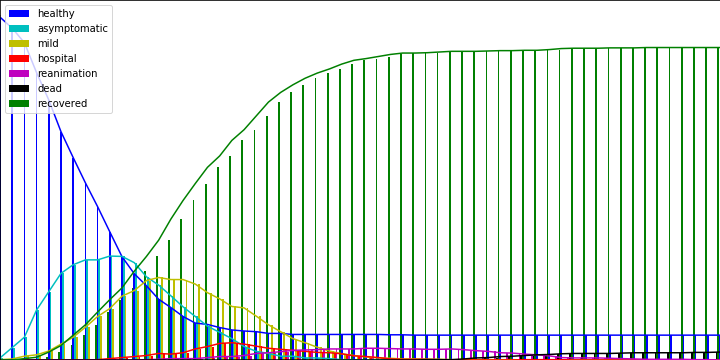
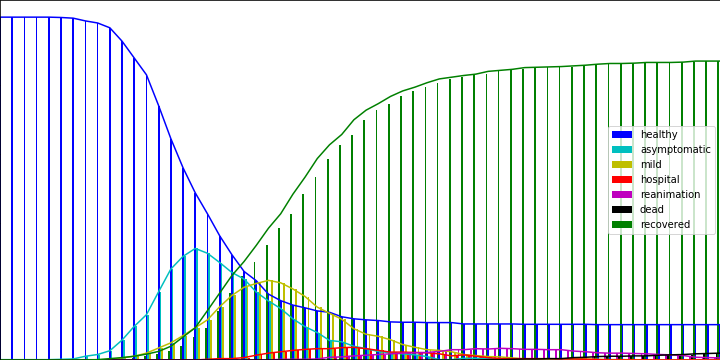
vectorization of map.make_move()

Changed region(s): [[0.0, 0.0, 1.0, 1.0], [0.825, 0.3361, 1.0, 0.6722]]

diff --git a/propagsim/classes.py b/propagsim/classes.py
@@ -1,7 +1,7 @@
 from numpy.random import choice, uniform
-from numpy import array, concatenate, where
+from numpy import array, concatenate, where, argmax, copy, multiply, max
 from itertools import compress
-from propagsim.utils import get_least_severe_state, get_move_proba_matrix
+from propagsim.utils import get_least_severe_state, get_move_proba_matrix, vectorized_choice, np_one_hot_encode
 from multiprocessing import Pool, cpu_count
 
 
@@ -232,21 +232,20 @@ class Cell:
         """ update the state of the agent in the cell by activing contagion. The probability for an agent to get infected is:
         (greatest contagiousity among agents in cell) * (sensitivity of agent)
         """
-        most_contagious_agent = None
-        for agent in self.agents:
-            if (most_contagious_agent is None or 
-                    agent.get_state().get_contagiousity() > most_contagious_agent.get_state().get_contagiousity()):
-                most_contagious_agent = agent
-        greatest_contagiousity = most_contagious_agent.get_state().get_contagiousity()
-        if greatest_contagiousity == 0: 
-            return  # no update if no agent in the cell is contagious
-        for agent in self.agents:  # unnecessary to parallelize, there shouldn't be too many agents in a single cell
-            proba_infection = greatest_contagiousity * agent.get_state().get_sensitivity() * self.unsafety
-            draw = uniform()
-            if draw < proba_infection:
-                newly_infected = agent.get_infected()
-                if newly_infected:
-                    most_contagious_agent.append_contaminated(agent.get_id())
+        contagiousity_agents = array([agent.get_state().get_contagiousity() for agent in self.agents])
+        greatest_contagiousity = max(contagiousity_agents)
+        most_contagious_agent = self.agents[argmax(contagiousity_agents)]
+        if greatest_contagiousity == 0:
+            return 
+        sensitivity_agents = array([agent.get_state().get_sensitivity() for agent in self.agents])
+        probas_infection = self.unsafety * greatest_contagiousity * sensitivity_agents
+        draws = uniform(size=probas_infection.shape[0])
+        inds_agents_to_infect = where(probas_infection > draws)[0]
+        for ind in inds_agents_to_infect:
+            if self.agents[ind].get_infected():
+                most_contagious_agent.append_contaminated(ind)
+
+
 
     def add_agent(self, agent, update=True):
         """ add `agent` to the cell. `update`: if to proceed to contagion within the cell or not. """
@@ -291,6 +290,17 @@ class Map:
         self.attractivity_arr = array([cell.get_attractivity() for cell in cells])
 
         self.move_proba_matrix = get_move_proba_matrix(self.pos_cells_arr, self.pos_agents_arr, self.attractivity_arr)
+        self.unsafety_cells = array([cell.get_unsafety() for cell in cells])
+        self.p_moves = array([agent.get_p_move() for agent in agents])
+        self.severities = array([agent.get_state().get_severity() for agent in agents])
+        self.infectabilities = self.severities > 0
+        self.sensitivities = array([agent.get_sensitivity() for agent in agents])
+        self.contagiousities = array([agent.get_contagiousity() for agent in agents])
+        self.probas_move = self.p_moves * (1 - self.severities)
+        self.home_cell_ids = array([agent.get_home_cell_id() for agent in agents])
+        self.current_state_ids = array([agent.get_state().get_id() for agent in agents])
+        self.least_state_ids = array([agent.get_least_severe_state().get_id() for agent in agents])
+        self.current_state_durations = array([0] * self.n_agents)
 
 
     def get_agent(self, id):
@@ -335,18 +345,28 @@ class Map:
         it's considered to return (or stay) home during this move """
         # Select agents who make a move
         draw = uniform()
-        probas_move = array([(agent.get_p_move() * (1 - agent.get_state().get_severity())) for agent in self.agents])
-        inds_agents2move = where(probas_move >= draw)[0]
+        inds_agents2move = where(self.probas_move >= draw)[0]
         if self.verbose >= 1:
             print(f'INFO: {inds_agents2move.shape[0]} selected for move')
+        # Move agents selected agents (the others go/stay in their home cell)
+        probas_new_cell = self.move_proba_matrix[:, inds_agents2move]
+        new_cell_ids = vectorized_choice(probas_new_cell)
+        current_agent_cells = copy(self.home_cell_ids)
+        current_agent_cells[inds_agents2move] = new_cell_ids
+        # contamination process
+        current_agent_cells_one_hot = np_one_hot_encode(current_agent_cells)
+        arr_contagiousity = repeat(self.contagiousities, current_agent_cells.shape[1], axis=1)
+        arr_contagiousity = multiply(current_agent_cells, arr_contagiousity)
+        max_contagiousities = max(arr_contagiousity, axis=1)
+        max_contagiousities = max_contagiousities[current_agent_cells]  # max contagiousity by agent in their current cell 
+        unsafeties = self.unsafety_cells[current_agent_cells]  # by agent, unsafety of their current cell
 
-        for i in inds_agents2move:
-            self.move_single_agent(i)
-        
-        # Move back home agents who didn't move
-        inds_agents2home = list(set(list(range(self.n_agents))) - set(inds_agents2move))
-        for i in inds_agents2home:
-            self.move_home_ind(i)
+        probas_infection = unsafeties * max_contagiousity * self.sensitivities
+        draws = uniform(size=probas_infection.shape[0])
+        inds_agents_to_infect = where((probas_infection > draws) & self.infectabilities)[0]
+        # Infect contaminated agents
+        self.current_state_ids[inds_agents_to_infect] = self.least_state_ids[inds_agents_to_infect]
+        self.infectabilities[inds_agents_to_infect] = False  # agents no anymore infectable once infected
 
 
     def all_home(self):
@@ -357,6 +377,9 @@ class Map:
 
     def forward_all_cells(self):
         """ move all agents in map one time step forward """
+        self.state_durations += 1
+
+
         for agent in self.agents:
             agent.forward()
         # Update R coeff after a global forward

diff --git a/propagsim/utils.py b/propagsim/utils.py
@@ -1,5 +1,6 @@
-from numpy import isinf
+from numpy import isinf, array, zeros, arange
 from numpy.linalg import norm
+from numpy.random import rand
 from scipy.spatial.distance import cdist
 import warnings
 
@@ -40,7 +41,26 @@ def get_move_proba_matrix(pos_cells_arr, pos_agents_arr, attractivity_arr):
     """
     mat = 1 / cdist(pos_cells_arr, pos_agents_arr, 'euclidean')
     mat[isinf(mat)] = 0  # zero probability to move to the same place (where 1/dist is inf)
-    mat[mat > 1] = 1  # to not overly favor cells very close to home cell
     mat *= attractivity_arr[:, None]  # col-wise multiplication
     mat /= norm(mat, ord=1, axis=0, keepdims=True)  # nor each col s.t. sums up to 1 (proba repartition)
     return mat
+
+
+def vectorized_choice(prob_matrix, axis=1):
+    """ 
+    selects index according to weights in `prob_matrix` rows (if `axis`==0), cols otherwise 
+    see https://stackoverflow.com/questions/34187130/fast-random-weighted-selection-across-all-rows-of-a-stochastic-matrix
+    """
+    s = prob_matrix.cumsum(axis=1)
+    r = rand(prob_matrix.shape[0])
+    k = (s < r).sum(axis=1)
+    return k
+
+def np_one_hot_encode(a):
+    """
+    one-hot encoding of np.array `a`
+    see: https://stackoverflow.com/questions/29831489/convert-array-of-indices-to-1-hot-encoded-numpy-array
+    """
+    b = zeros((a.size, a.max() + 1))
+    b[arange(a.size),a] = 1
+    return b
